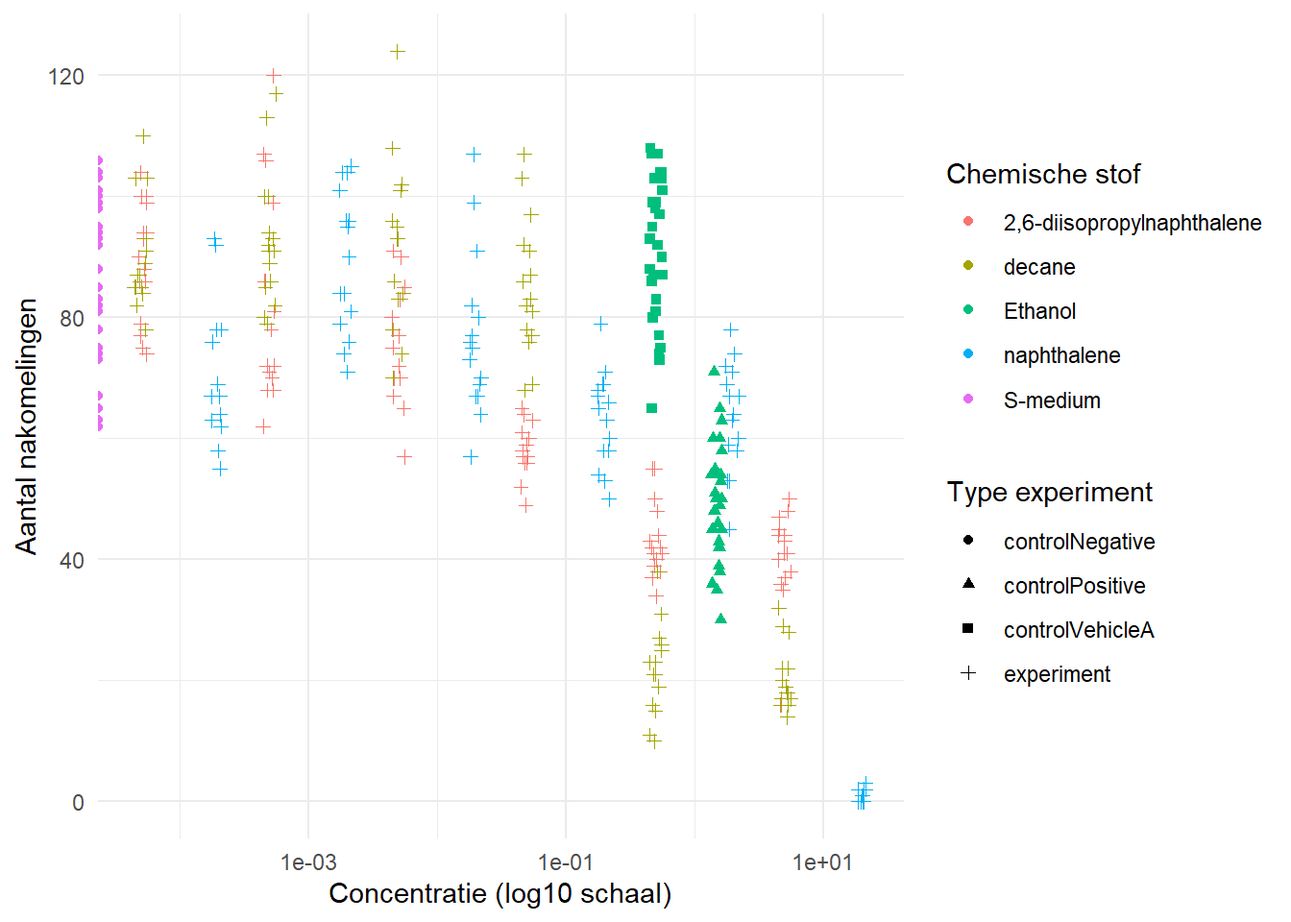
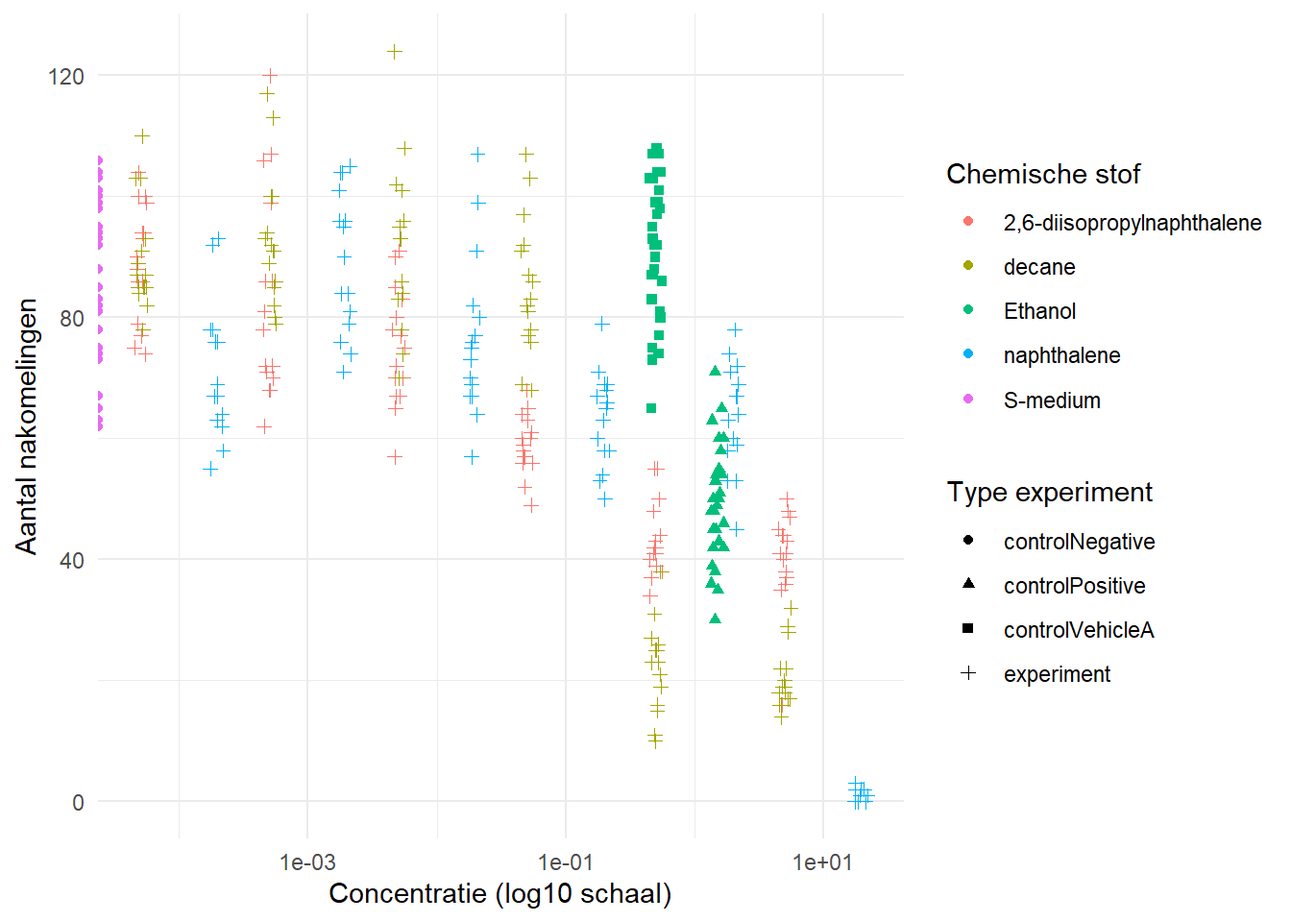
formatieve opdracht 3

diff --git a/opdracht-4.html b/opdracht-4.html
@@ -166,9 +166,8 @@ code span.wa { color: #60a0b0; font-weight: bold; font-style: italic; } /* Warni
 <li class="chapter" data-level="5" data-path="opdracht-4.html"><a href="opdracht-4.html"><i class="fa fa-check"></i><b>5</b> opdracht 4</a>
 <ul>
 <li class="chapter" data-level="5.1" data-path="opdracht-4.html"><a href="opdracht-4.html#opdracht-4a.-een-data-analyse-van-een-ander-reproduceren"><i class="fa fa-check"></i><b>5.1</b> opdracht 4a. Een data analyse van een ander reproduceren</a></li>
-<li class="chapter" data-level="5.2" data-path="opdracht-4.html"><a href="opdracht-4.html#pdracht-.-een-artikel-beoordelen-op-reproduceerbaarheid"><i class="fa fa-check"></i><b>5.2</b> pdracht . Een artikel beoordelen op reproduceerbaarheid</a></li>
-<li class="chapter" data-level="5.3" data-path="opdracht-4.html"><a href="opdracht-4.html#stappenplan-voor-een-dose-response-analyse"><i class="fa fa-check"></i><b>5.3</b> Stappenplan voor een dose-response analyse</a></li>
-<li class="chapter" data-level="5.4" data-path="opdracht-4.html"><a href="opdracht-4.html#opdracht-4-een-artikel-beoordelen-op-reproduceerbaarheid"><i class="fa fa-check"></i><b>5.4</b> opdracht 4 Een artikel beoordelen op reproduceerbaarheid</a></li>
+<li class="chapter" data-level="5.2" data-path="opdracht-4.html"><a href="opdracht-4.html#stappenplan-voor-een-dose-response-analyse"><i class="fa fa-check"></i><b>5.2</b> Stappenplan voor een dose-response analyse</a></li>
+<li class="chapter" data-level="5.3" data-path="opdracht-4.html"><a href="opdracht-4.html#opdracht-4-een-artikel-beoordelen-op-reproduceerbaarheid"><i class="fa fa-check"></i><b>5.3</b> opdracht 4 Een artikel beoordelen op reproduceerbaarheid</a></li>
 </ul></li>
 </ul>
 
@@ -303,47 +302,44 @@ code span.wa { color: #60a0b0; font-weight: bold; font-style: italic; } /* Warni
 <span id="cb13-2"><a href="opdracht-4.html#cb13-2" tabindex="-1"></a></span>
 <span id="cb13-3"><a href="opdracht-4.html#cb13-3" tabindex="-1"></a></span>
 <span id="cb13-4"><a href="opdracht-4.html#cb13-4" tabindex="-1"></a></span>
-<span id="cb13-5"><a href="opdracht-4.html#cb13-5" tabindex="-1"></a><span class="fu">library</span>(ggplot2)</span>
-<span id="cb13-6"><a href="opdracht-4.html#cb13-6" tabindex="-1"></a></span>
-<span id="cb13-7"><a href="opdracht-4.html#cb13-7" tabindex="-1"></a><span class="fu">ggplot</span>(data, <span class="fu">aes</span>(<span class="at">x =</span> compConcentration, <span class="at">y =</span> RawData,</span>
-<span id="cb13-8"><a href="opdracht-4.html#cb13-8" tabindex="-1"></a>                 <span class="at">color =</span> compName, <span class="at">shape =</span> expType)) <span class="sc">+</span></span>
-<span id="cb13-9"><a href="opdracht-4.html#cb13-9" tabindex="-1"></a>  <span class="fu">geom_point</span>(<span class="at">position =</span> <span class="fu">position_jitter</span>(<span class="at">width =</span> <span class="fl">0.05</span>, <span class="at">height =</span> <span class="dv">0</span>)) <span class="sc">+</span></span>
-<span id="cb13-10"><a href="opdracht-4.html#cb13-10" tabindex="-1"></a>  <span class="fu">scale_x_log10</span>() <span class="sc">+</span></span>
-<span id="cb13-11"><a href="opdracht-4.html#cb13-11" tabindex="-1"></a>  <span class="fu">theme_minimal</span>() <span class="sc">+</span></span>
-<span id="cb13-12"><a href="opdracht-4.html#cb13-12" tabindex="-1"></a>  <span class="fu">labs</span>(<span class="at">x =</span> <span class="st">&quot;Concentratie (log10 schaal)&quot;</span>,</span>
-<span id="cb13-13"><a href="opdracht-4.html#cb13-13" tabindex="-1"></a>       <span class="at">y =</span> <span class="st">&quot;Aantal nakomelingen&quot;</span>,</span>
-<span id="cb13-14"><a href="opdracht-4.html#cb13-14" tabindex="-1"></a>       <span class="at">color =</span> <span class="st">&quot;Chemische stof&quot;</span>,</span>
-<span id="cb13-15"><a href="opdracht-4.html#cb13-15" tabindex="-1"></a>       <span class="at">shape =</span> <span class="st">&quot;Type experiment&quot;</span>)</span></code></pre></div>
+<span id="cb13-5"><a href="opdracht-4.html#cb13-5" tabindex="-1"></a><span class="fu">library</span>(ggplot2)</span></code></pre></div>
+<pre><code>## Want to understand how all the pieces fit together? Read R for Data Science: https://r4ds.hadley.nz/</code></pre>
+<div class="sourceCode" id="cb15"><pre class="sourceCode r"><code class="sourceCode r"><span id="cb15-1"><a href="opdracht-4.html#cb15-1" tabindex="-1"></a><span class="fu">ggplot</span>(data, <span class="fu">aes</span>(<span class="at">x =</span> compConcentration, <span class="at">y =</span> RawData,</span>
+<span id="cb15-2"><a href="opdracht-4.html#cb15-2" tabindex="-1"></a>                 <span class="at">color =</span> compName, <span class="at">shape =</span> expType)) <span class="sc">+</span></span>
+<span id="cb15-3"><a href="opdracht-4.html#cb15-3" tabindex="-1"></a>  <span class="fu">geom_point</span>(<span class="at">position =</span> <span class="fu">position_jitter</span>(<span class="at">width =</span> <span class="fl">0.05</span>, <span class="at">height =</span> <span class="dv">0</span>)) <span class="sc">+</span></span>
+<span id="cb15-4"><a href="opdracht-4.html#cb15-4" tabindex="-1"></a>  <span class="fu">scale_x_log10</span>() <span class="sc">+</span></span>
+<span id="cb15-5"><a href="opdracht-4.html#cb15-5" tabindex="-1"></a>  <span class="fu">theme_minimal</span>() <span class="sc">+</span></span>
+<span id="cb15-6"><a href="opdracht-4.html#cb15-6" tabindex="-1"></a>  <span class="fu">labs</span>(<span class="at">x =</span> <span class="st">&quot;Concentratie (log10 schaal)&quot;</span>,</span>
+<span id="cb15-7"><a href="opdracht-4.html#cb15-7" tabindex="-1"></a>       <span class="at">y =</span> <span class="st">&quot;Aantal nakomelingen&quot;</span>,</span>
+<span id="cb15-8"><a href="opdracht-4.html#cb15-8" tabindex="-1"></a>       <span class="at">color =</span> <span class="st">&quot;Chemische stof&quot;</span>,</span>
+<span id="cb15-9"><a href="opdracht-4.html#cb15-9" tabindex="-1"></a>       <span class="at">shape =</span> <span class="st">&quot;Type experiment&quot;</span>)</span></code></pre></div>
 <pre><code>## Warning in scale_x_log10(): log-10 transformation introduced infinite values.</code></pre>
 <pre><code>## Warning: Removed 6 rows containing missing values or values outside the scale range (`geom_point()`).</code></pre>
 <p><img src="portfolio_files/figure-html/C_elegans-1.png" alt="" width="672" /></p>
-<div class="sourceCode" id="cb16"><pre class="sourceCode r"><code class="sourceCode r"><span id="cb16-1"><a href="opdracht-4.html#cb16-1" tabindex="-1"></a>neg_control_mean <span class="ot">&lt;-</span> <span class="fu">mean</span>(data<span class="sc">$</span>RawData[data<span class="sc">$</span>expType <span class="sc">==</span> <span class="st">&quot;controlNegative&quot;</span>], <span class="at">na.rm =</span> <span class="cn">TRUE</span>)</span>
-<span id="cb16-2"><a href="opdracht-4.html#cb16-2" tabindex="-1"></a></span>
-<span id="cb16-3"><a href="opdracht-4.html#cb16-3" tabindex="-1"></a>data<span class="sc">$</span>normalized <span class="ot">&lt;-</span> data<span class="sc">$</span>RawData <span class="sc">/</span> neg_control_mean</span>
-<span id="cb16-4"><a href="opdracht-4.html#cb16-4" tabindex="-1"></a></span>
-<span id="cb16-5"><a href="opdracht-4.html#cb16-5" tabindex="-1"></a><span class="fu">mean</span>(data<span class="sc">$</span>normalized[data<span class="sc">$</span>expType <span class="sc">==</span> <span class="st">&quot;controlNegative&quot;</span>])</span></code></pre></div>
-<pre><code>## [1] 1</code></pre>
-<div class="sourceCode" id="cb18"><pre class="sourceCode r"><code class="sourceCode r"><span id="cb18-1"><a href="opdracht-4.html#cb18-1" tabindex="-1"></a><span class="co"># moet ~1 zijn</span></span>
+<div class="sourceCode" id="cb18"><pre class="sourceCode r"><code class="sourceCode r"><span id="cb18-1"><a href="opdracht-4.html#cb18-1" tabindex="-1"></a>neg_control_mean <span class="ot">&lt;-</span> <span class="fu">mean</span>(data<span class="sc">$</span>RawData[data<span class="sc">$</span>expType <span class="sc">==</span> <span class="st">&quot;controlNegative&quot;</span>], <span class="at">na.rm =</span> <span class="cn">TRUE</span>)</span>
 <span id="cb18-2"><a href="opdracht-4.html#cb18-2" tabindex="-1"></a></span>
-<span id="cb18-3"><a href="opdracht-4.html#cb18-3" tabindex="-1"></a></span>
-<span id="cb18-4"><a href="opdracht-4.html#cb18-4" tabindex="-1"></a><span class="fu">ggplot</span>(data, <span class="fu">aes</span>(<span class="at">x =</span> compConcentration, <span class="at">y =</span> normalized,</span>
-<span id="cb18-5"><a href="opdracht-4.html#cb18-5" tabindex="-1"></a>                 <span class="at">color =</span> compName, <span class="at">shape =</span> expType)) <span class="sc">+</span></span>
-<span id="cb18-6"><a href="opdracht-4.html#cb18-6" tabindex="-1"></a>  <span class="fu">geom_point</span>(<span class="at">position =</span> <span class="fu">position_jitter</span>(<span class="at">width =</span> <span class="fl">0.05</span>, <span class="at">height =</span> <span class="dv">0</span>)) <span class="sc">+</span></span>
-<span id="cb18-7"><a href="opdracht-4.html#cb18-7" tabindex="-1"></a>  <span class="fu">scale_x_log10</span>() <span class="sc">+</span></span>
-<span id="cb18-8"><a href="opdracht-4.html#cb18-8" tabindex="-1"></a>  <span class="fu">theme_minimal</span>() <span class="sc">+</span></span>
-<span id="cb18-9"><a href="opdracht-4.html#cb18-9" tabindex="-1"></a>  <span class="fu">labs</span>(<span class="at">x =</span> <span class="st">&quot;Concentratie (log10 schaal)&quot;</span>,</span>
-<span id="cb18-10"><a href="opdracht-4.html#cb18-10" tabindex="-1"></a>       <span class="at">y =</span> <span class="st">&quot;Genormaliseerd aantal nakomelingen&quot;</span>,</span>
-<span id="cb18-11"><a href="opdracht-4.html#cb18-11" tabindex="-1"></a>       <span class="at">color =</span> <span class="st">&quot;Chemische stof&quot;</span>,</span>
-<span id="cb18-12"><a href="opdracht-4.html#cb18-12" tabindex="-1"></a>       <span class="at">shape =</span> <span class="st">&quot;Type experiment&quot;</span>)</span></code></pre></div>
+<span id="cb18-3"><a href="opdracht-4.html#cb18-3" tabindex="-1"></a>data<span class="sc">$</span>normalized <span class="ot">&lt;-</span> data<span class="sc">$</span>RawData <span class="sc">/</span> neg_control_mean</span>
+<span id="cb18-4"><a href="opdracht-4.html#cb18-4" tabindex="-1"></a></span>
+<span id="cb18-5"><a href="opdracht-4.html#cb18-5" tabindex="-1"></a><span class="fu">mean</span>(data<span class="sc">$</span>normalized[data<span class="sc">$</span>expType <span class="sc">==</span> <span class="st">&quot;controlNegative&quot;</span>])</span></code></pre></div>
+<pre><code>## [1] 1</code></pre>
+<div class="sourceCode" id="cb20"><pre class="sourceCode r"><code class="sourceCode r"><span id="cb20-1"><a href="opdracht-4.html#cb20-1" tabindex="-1"></a><span class="co"># moet ~1 zijn</span></span>
+<span id="cb20-2"><a href="opdracht-4.html#cb20-2" tabindex="-1"></a></span>
+<span id="cb20-3"><a href="opdracht-4.html#cb20-3" tabindex="-1"></a></span>
+<span id="cb20-4"><a href="opdracht-4.html#cb20-4" tabindex="-1"></a><span class="fu">ggplot</span>(data, <span class="fu">aes</span>(<span class="at">x =</span> compConcentration, <span class="at">y =</span> normalized,</span>
+<span id="cb20-5"><a href="opdracht-4.html#cb20-5" tabindex="-1"></a>                 <span class="at">color =</span> compName, <span class="at">shape =</span> expType)) <span class="sc">+</span></span>
+<span id="cb20-6"><a href="opdracht-4.html#cb20-6" tabindex="-1"></a>  <span class="fu">geom_point</span>(<span class="at">position =</span> <span class="fu">position_jitter</span>(<span class="at">width =</span> <span class="fl">0.05</span>, <span class="at">height =</span> <span class="dv">0</span>)) <span class="sc">+</span></span>
+<span id="cb20-7"><a href="opdracht-4.html#cb20-7" tabindex="-1"></a>  <span class="fu">scale_x_log10</span>() <span class="sc">+</span></span>
+<span id="cb20-8"><a href="opdracht-4.html#cb20-8" tabindex="-1"></a>  <span class="fu">theme_minimal</span>() <span class="sc">+</span></span>
+<span id="cb20-9"><a href="opdracht-4.html#cb20-9" tabindex="-1"></a>  <span class="fu">labs</span>(<span class="at">x =</span> <span class="st">&quot;Concentratie (log10 schaal)&quot;</span>,</span>
+<span id="cb20-10"><a href="opdracht-4.html#cb20-10" tabindex="-1"></a>       <span class="at">y =</span> <span class="st">&quot;Genormaliseerd aantal nakomelingen&quot;</span>,</span>
+<span id="cb20-11"><a href="opdracht-4.html#cb20-11" tabindex="-1"></a>       <span class="at">color =</span> <span class="st">&quot;Chemische stof&quot;</span>,</span>
+<span id="cb20-12"><a href="opdracht-4.html#cb20-12" tabindex="-1"></a>       <span class="at">shape =</span> <span class="st">&quot;Type experiment&quot;</span>)</span></code></pre></div>
 <pre><code>## Warning in scale_x_log10(): log-10 transformation introduced infinite values.
 ## Removed 6 rows containing missing values or values outside the scale range (`geom_point()`).</code></pre>
 <p><img src="portfolio_files/figure-html/C_elegans-2.png" alt="" width="672" />
-Hier moet een conclusie</p>
-</div>
-<div id="pdracht-.-een-artikel-beoordelen-op-reproduceerbaarheid" class="section level2 hasAnchor" number="5.2">
-<h2><span class="header-section-number">5.2</span> pdracht . Een artikel beoordelen op reproduceerbaarheid<a href="opdracht-4.html#pdracht-.-een-artikel-beoordelen-op-reproduceerbaarheid" class="anchor-section" aria-label="Anchor link to header"></a></h2>
-<p>Tekstuele uitleg voor je verslag
-Controles in het experiment
+Conclusie:
+De dataset is correct ingelezen en de structuur van de data is grotendeels geschikt voor analyse. RawData is al numeriek en kan direct gebruikt worden, terwijl compName terecht als factor is gezet voor categorische analyses en visualisaties. De variabele compConcentration is geconverteerd van character naar numeric, maar hierbij zijn enkele NA-waarden ontstaan door niet-numerieke invoer in de oorspronkelijke data. Dit heeft beperkte invloed op de analyse, maar vereist aandacht bij verdere visualisaties. Over het algemeen is de data bruikbaar voor verdere statistische analyse en visualisatie.</p>
+<p>Controles in het experiment
 Negatieve controle (controlNegative):
 Wormen zonder blootstelling aan een toxische stof. Dit geeft de baseline reproductie.
 Positieve controle:
@@ -355,7 +351,6 @@ Negatief: referentiepunt voor normale groei
 Positief: valideert experimentele gevoeligheid
 Vehicle: controleert bias door oplosmiddelen</p>
 <p>Samen zorgen ze ervoor dat effecten correct geïnterpreteerd worden.</p>
-<p>Nut van normalisatie</p>
 <p>Door te normaliseren:</p>
 <p>worden experimenten vergelijkbaar
 corrigeer je voor variatie tussen metingen
@@ -365,8 +360,8 @@ druk je resultaten uit als relatief effect</p>
 &lt;1 = remming (toxisch effect)
 &gt;1 = stimulatie</p>
 </div>
-<div id="stappenplan-voor-een-dose-response-analyse" class="section level2 hasAnchor" number="5.3">
-<h2><span class="header-section-number">5.3</span> Stappenplan voor een dose-response analyse<a href="opdracht-4.html#stappenplan-voor-een-dose-response-analyse" class="anchor-section" aria-label="Anchor link to header"></a></h2>
+<div id="stappenplan-voor-een-dose-response-analyse" class="section level2 hasAnchor" number="5.2">
+<h2><span class="header-section-number">5.2</span> Stappenplan voor een dose-response analyse<a href="opdracht-4.html#stappenplan-voor-een-dose-response-analyse" class="anchor-section" aria-label="Anchor link to header"></a></h2>
 <p>Voor het kwantificeren van het effect van de verschillende chemicaliën op de reproductie van C. elegans kan een dose-response analyse worden uitgevoerd met behulp van een log-logistisch model.</p>
 <p>Vervolgens wordt een model gefit waarin de genormaliseerde responsvariabele wordt gemodelleerd als functie van de concentratie van het chemische middel. Indien meerdere stoffen worden geanalyseerd, kan per stof een aparte curve worden geschat binnen hetzelfde model.</p>
 <p>Daarna wordt een samenvatting van het model bekeken om inzicht te krijgen in de geschatte parameters, zoals de helling van de curve en de minimale en maximale respons.</p>
@@ -374,8 +369,8 @@ druk je resultaten uit als relatief effect</p>
 <p>Vervolgens wordt de IC50-waarde bepaald. Dit is de concentratie waarbij 50% van het maximale effect wordt waargenomen. Deze parameter is een belangrijke maat voor de toxiciteit van een stof: hoe lager de IC50, hoe sterker het effect van de stof.</p>
 <p>Ten slotte kan modeldiagnostiek worden uitgevoerd, bijvoorbeeld door de residuen te inspecteren. Dit helpt om te beoordelen of het gekozen model een goede beschrijving van de data geeft.</p>
 </div>
-<div id="opdracht-4-een-artikel-beoordelen-op-reproduceerbaarheid" class="section level2 hasAnchor" number="5.4">
-<h2><span class="header-section-number">5.4</span> opdracht 4 Een artikel beoordelen op reproduceerbaarheid<a href="opdracht-4.html#opdracht-4-een-artikel-beoordelen-op-reproduceerbaarheid" class="anchor-section" aria-label="Anchor link to header"></a></h2>
+<div id="opdracht-4-een-artikel-beoordelen-op-reproduceerbaarheid" class="section level2 hasAnchor" number="5.3">
+<h2><span class="header-section-number">5.3</span> opdracht 4 Een artikel beoordelen op reproduceerbaarheid<a href="opdracht-4.html#opdracht-4-een-artikel-beoordelen-op-reproduceerbaarheid" class="anchor-section" aria-label="Anchor link to header"></a></h2>
 <p>Link: <a href="https://journals.plos.org/plosone/article?id=10.1371/journal.pone.0278495" class="uri">https://journals.plos.org/plosone/article?id=10.1371/journal.pone.0278495</a></p>
 <p>onderzoeksvraag
 Onderzoeksvraag

diff --git a/404.html b/404.html
@@ -166,9 +166,8 @@ code span.wa { color: #60a0b0; font-weight: bold; font-style: italic; } /* Warni
 <li class="chapter" data-level="5" data-path="opdracht-4.html"><a href="opdracht-4.html"><i class="fa fa-check"></i><b>5</b> opdracht 4</a>
 <ul>
 <li class="chapter" data-level="5.1" data-path="opdracht-4.html"><a href="opdracht-4.html#opdracht-4a.-een-data-analyse-van-een-ander-reproduceren"><i class="fa fa-check"></i><b>5.1</b> opdracht 4a. Een data analyse van een ander reproduceren</a></li>
-<li class="chapter" data-level="5.2" data-path="opdracht-4.html"><a href="opdracht-4.html#pdracht-.-een-artikel-beoordelen-op-reproduceerbaarheid"><i class="fa fa-check"></i><b>5.2</b> pdracht . Een artikel beoordelen op reproduceerbaarheid</a></li>
-<li class="chapter" data-level="5.3" data-path="opdracht-4.html"><a href="opdracht-4.html#stappenplan-voor-een-dose-response-analyse"><i class="fa fa-check"></i><b>5.3</b> Stappenplan voor een dose-response analyse</a></li>
-<li class="chapter" data-level="5.4" data-path="opdracht-4.html"><a href="opdracht-4.html#opdracht-4-een-artikel-beoordelen-op-reproduceerbaarheid"><i class="fa fa-check"></i><b>5.4</b> opdracht 4 Een artikel beoordelen op reproduceerbaarheid</a></li>
+<li class="chapter" data-level="5.2" data-path="opdracht-4.html"><a href="opdracht-4.html#stappenplan-voor-een-dose-response-analyse"><i class="fa fa-check"></i><b>5.2</b> Stappenplan voor een dose-response analyse</a></li>
+<li class="chapter" data-level="5.3" data-path="opdracht-4.html"><a href="opdracht-4.html#opdracht-4-een-artikel-beoordelen-op-reproduceerbaarheid"><i class="fa fa-check"></i><b>5.3</b> opdracht 4 Een artikel beoordelen op reproduceerbaarheid</a></li>
 </ul></li>
 </ul>
 

diff --git a/a.-formatieve-opdracht-rna-seq-daur2.html b/a.-formatieve-opdracht-rna-seq-daur2.html
@@ -166,9 +166,8 @@ code span.wa { color: #60a0b0; font-weight: bold; font-style: italic; } /* Warni
 <li class="chapter" data-level="5" data-path="opdracht-4.html"><a href="opdracht-4.html"><i class="fa fa-check"></i><b>5</b> opdracht 4</a>
 <ul>
 <li class="chapter" data-level="5.1" data-path="opdracht-4.html"><a href="opdracht-4.html#opdracht-4a.-een-data-analyse-van-een-ander-reproduceren"><i class="fa fa-check"></i><b>5.1</b> opdracht 4a. Een data analyse van een ander reproduceren</a></li>
-<li class="chapter" data-level="5.2" data-path="opdracht-4.html"><a href="opdracht-4.html#pdracht-.-een-artikel-beoordelen-op-reproduceerbaarheid"><i class="fa fa-check"></i><b>5.2</b> pdracht . Een artikel beoordelen op reproduceerbaarheid</a></li>
-<li class="chapter" data-level="5.3" data-path="opdracht-4.html"><a href="opdracht-4.html#stappenplan-voor-een-dose-response-analyse"><i class="fa fa-check"></i><b>5.3</b> Stappenplan voor een dose-response analyse</a></li>
-<li class="chapter" data-level="5.4" data-path="opdracht-4.html"><a href="opdracht-4.html#opdracht-4-een-artikel-beoordelen-op-reproduceerbaarheid"><i class="fa fa-check"></i><b>5.4</b> opdracht 4 Een artikel beoordelen op reproduceerbaarheid</a></li>
+<li class="chapter" data-level="5.2" data-path="opdracht-4.html"><a href="opdracht-4.html#stappenplan-voor-een-dose-response-analyse"><i class="fa fa-check"></i><b>5.2</b> Stappenplan voor een dose-response analyse</a></li>
+<li class="chapter" data-level="5.3" data-path="opdracht-4.html"><a href="opdracht-4.html#opdracht-4-een-artikel-beoordelen-op-reproduceerbaarheid"><i class="fa fa-check"></i><b>5.3</b> opdracht 4 Een artikel beoordelen op reproduceerbaarheid</a></li>
 </ul></li>
 </ul>
 

diff --git a/cv.html b/cv.html
@@ -166,9 +166,8 @@ code span.wa { color: #60a0b0; font-weight: bold; font-style: italic; } /* Warni
 <li class="chapter" data-level="5" data-path="opdracht-4.html"><a href="opdracht-4.html"><i class="fa fa-check"></i><b>5</b> opdracht 4</a>
 <ul>
 <li class="chapter" data-level="5.1" data-path="opdracht-4.html"><a href="opdracht-4.html#opdracht-4a.-een-data-analyse-van-een-ander-reproduceren"><i class="fa fa-check"></i><b>5.1</b> opdracht 4a. Een data analyse van een ander reproduceren</a></li>
-<li class="chapter" data-level="5.2" data-path="opdracht-4.html"><a href="opdracht-4.html#pdracht-.-een-artikel-beoordelen-op-reproduceerbaarheid"><i class="fa fa-check"></i><b>5.2</b> pdracht . Een artikel beoordelen op reproduceerbaarheid</a></li>
-<li class="chapter" data-level="5.3" data-path="opdracht-4.html"><a href="opdracht-4.html#stappenplan-voor-een-dose-response-analyse"><i class="fa fa-check"></i><b>5.3</b> Stappenplan voor een dose-response analyse</a></li>
-<li class="chapter" data-level="5.4" data-path="opdracht-4.html"><a href="opdracht-4.html#opdracht-4-een-artikel-beoordelen-op-reproduceerbaarheid"><i class="fa fa-check"></i><b>5.4</b> opdracht 4 Een artikel beoordelen op reproduceerbaarheid</a></li>
+<li class="chapter" data-level="5.2" data-path="opdracht-4.html"><a href="opdracht-4.html#stappenplan-voor-een-dose-response-analyse"><i class="fa fa-check"></i><b>5.2</b> Stappenplan voor een dose-response analyse</a></li>
+<li class="chapter" data-level="5.3" data-path="opdracht-4.html"><a href="opdracht-4.html#opdracht-4-een-artikel-beoordelen-op-reproduceerbaarheid"><i class="fa fa-check"></i><b>5.3</b> opdracht 4 Een artikel beoordelen op reproduceerbaarheid</a></li>
 </ul></li>
 </ul>
 

diff --git a/wat-wil-ik-leren.html b/wat-wil-ik-leren.html
@@ -166,9 +166,8 @@ code span.wa { color: #60a0b0; font-weight: bold; font-style: italic; } /* Warni
 <li class="chapter" data-level="5" data-path="opdracht-4.html"><a href="opdracht-4.html"><i class="fa fa-check"></i><b>5</b> opdracht 4</a>
 <ul>
 <li class="chapter" data-level="5.1" data-path="opdracht-4.html"><a href="opdracht-4.html#opdracht-4a.-een-data-analyse-van-een-ander-reproduceren"><i class="fa fa-check"></i><b>5.1</b> opdracht 4a. Een data analyse van een ander reproduceren</a></li>
-<li class="chapter" data-level="5.2" data-path="opdracht-4.html"><a href="opdracht-4.html#pdracht-.-een-artikel-beoordelen-op-reproduceerbaarheid"><i class="fa fa-check"></i><b>5.2</b> pdracht . Een artikel beoordelen op reproduceerbaarheid</a></li>
-<li class="chapter" data-level="5.3" data-path="opdracht-4.html"><a href="opdracht-4.html#stappenplan-voor-een-dose-response-analyse"><i class="fa fa-check"></i><b>5.3</b> Stappenplan voor een dose-response analyse</a></li>
-<li class="chapter" data-level="5.4" data-path="opdracht-4.html"><a href="opdracht-4.html#opdracht-4-een-artikel-beoordelen-op-reproduceerbaarheid"><i class="fa fa-check"></i><b>5.4</b> opdracht 4 Een artikel beoordelen op reproduceerbaarheid</a></li>
+<li class="chapter" data-level="5.2" data-path="opdracht-4.html"><a href="opdracht-4.html#stappenplan-voor-een-dose-response-analyse"><i class="fa fa-check"></i><b>5.2</b> Stappenplan voor een dose-response analyse</a></li>
+<li class="chapter" data-level="5.3" data-path="opdracht-4.html"><a href="opdracht-4.html#opdracht-4-een-artikel-beoordelen-op-reproduceerbaarheid"><i class="fa fa-check"></i><b>5.3</b> opdracht 4 Een artikel beoordelen op reproduceerbaarheid</a></li>
 </ul></li>
 </ul>
 

diff --git a/welkom.html b/welkom.html
@@ -166,9 +166,8 @@ code span.wa { color: #60a0b0; font-weight: bold; font-style: italic; } /* Warni
 <li class="chapter" data-level="5" data-path="opdracht-4.html"><a href="opdracht-4.html"><i class="fa fa-check"></i><b>5</b> opdracht 4</a>
 <ul>
 <li class="chapter" data-level="5.1" data-path="opdracht-4.html"><a href="opdracht-4.html#opdracht-4a.-een-data-analyse-van-een-ander-reproduceren"><i class="fa fa-check"></i><b>5.1</b> opdracht 4a. Een data analyse van een ander reproduceren</a></li>
-<li class="chapter" data-level="5.2" data-path="opdracht-4.html"><a href="opdracht-4.html#pdracht-.-een-artikel-beoordelen-op-reproduceerbaarheid"><i class="fa fa-check"></i><b>5.2</b> pdracht . Een artikel beoordelen op reproduceerbaarheid</a></li>
-<li class="chapter" data-level="5.3" data-path="opdracht-4.html"><a href="opdracht-4.html#stappenplan-voor-een-dose-response-analyse"><i class="fa fa-check"></i><b>5.3</b> Stappenplan voor een dose-response analyse</a></li>
-<li class="chapter" data-level="5.4" data-path="opdracht-4.html"><a href="opdracht-4.html#opdracht-4-een-artikel-beoordelen-op-reproduceerbaarheid"><i class="fa fa-check"></i><b>5.4</b> opdracht 4 Een artikel beoordelen op reproduceerbaarheid</a></li>
+<li class="chapter" data-level="5.2" data-path="opdracht-4.html"><a href="opdracht-4.html#stappenplan-voor-een-dose-response-analyse"><i class="fa fa-check"></i><b>5.2</b> Stappenplan voor een dose-response analyse</a></li>
+<li class="chapter" data-level="5.3" data-path="opdracht-4.html"><a href="opdracht-4.html#opdracht-4-een-artikel-beoordelen-op-reproduceerbaarheid"><i class="fa fa-check"></i><b>5.3</b> opdracht 4 Een artikel beoordelen op reproduceerbaarheid</a></li>
 </ul></li>
 </ul>
 
